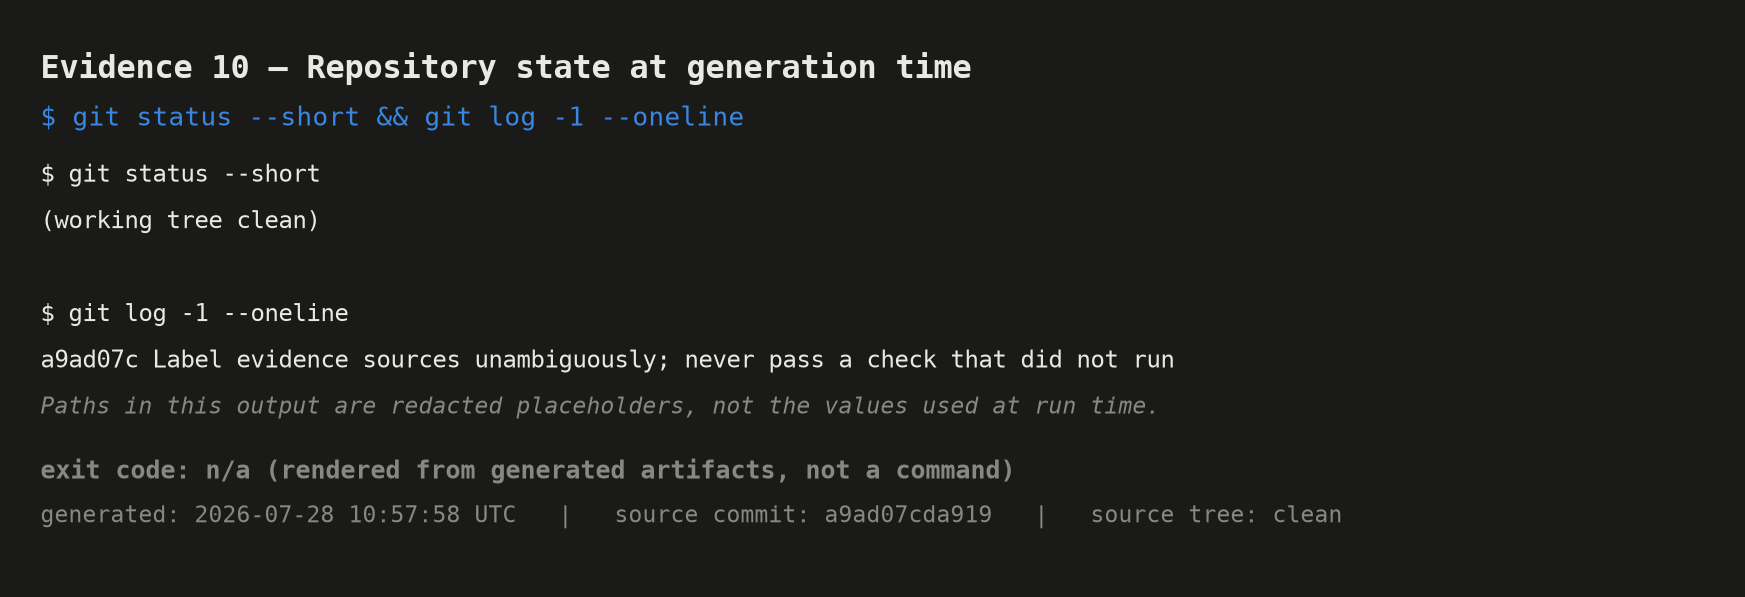
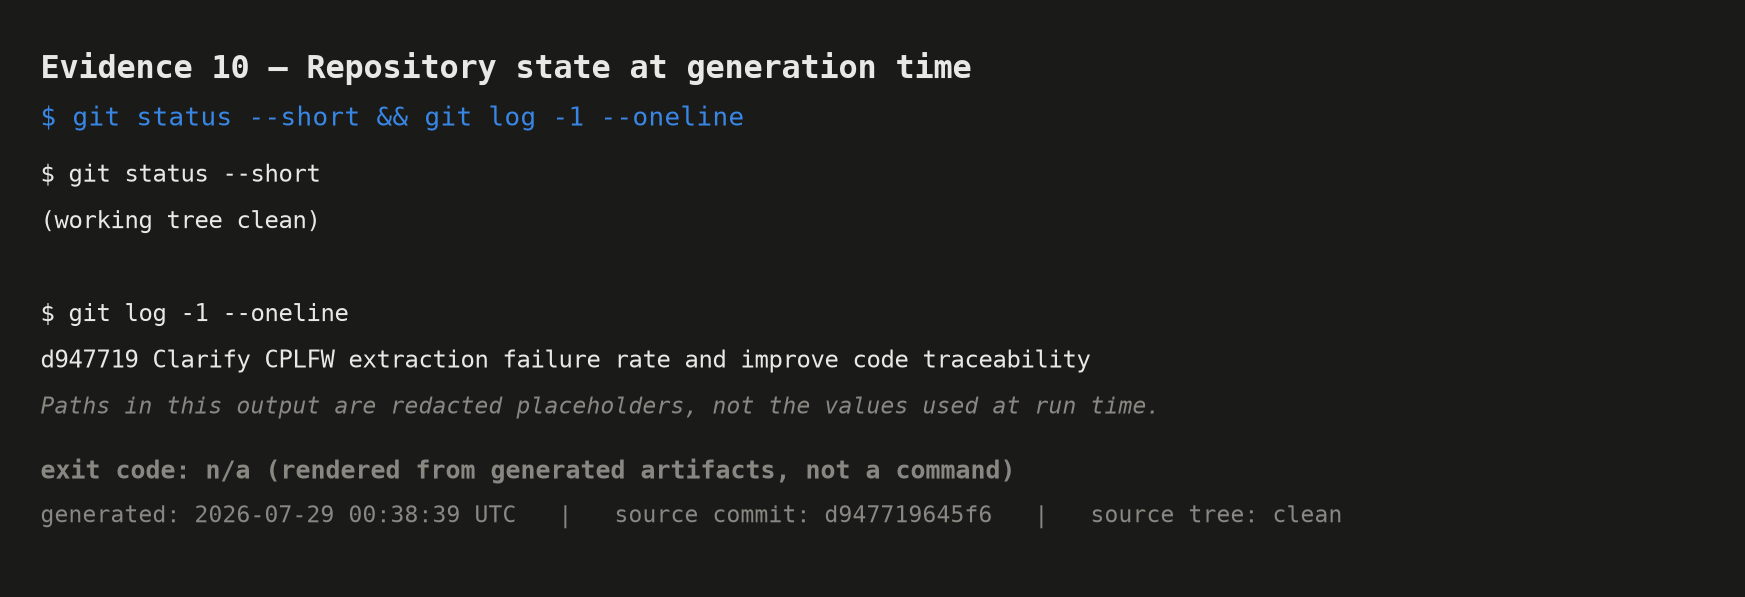
Regenerate report evidence with corrected failure-category caption
Regenerated outside the repository from clean source commit d947719.

Changed region(s): [[0.0309, 0.5729, 0.6808, 0.6332], [0.4642, 0.8442, 0.588, 0.8744], [0.1857, 0.8442, 0.2785, 0.8744]]

diff --git a/results/report_evidence/REPORT_EVIDENCE_INDEX.md b/results/report_evidence/REPORT_EVIDENCE_INDEX.md
@@ -1,6 +1,6 @@
 # Report evidence index
 
-Generated by `scripts/generate_report_evidence.py` at 2026-07-28 10:57:59 UTC from source commit `a9ad07cda919`, whose working tree was clean at generation time.
+Generated by `scripts/generate_report_evidence.py` at 2026-07-29 00:38:40 UTC from source commit `d947719645f6`, whose working tree was clean at generation time.
 
 The evidence files themselves are **not** part of that source commit: they are generated from it and added by a subsequent commit. Every figure is derived only from `results/aggregate/*` — no raw image, embedding, identity or absolute path is read or reproduced. Per-item hashes are in `report_evidence_manifest.json`.
 
